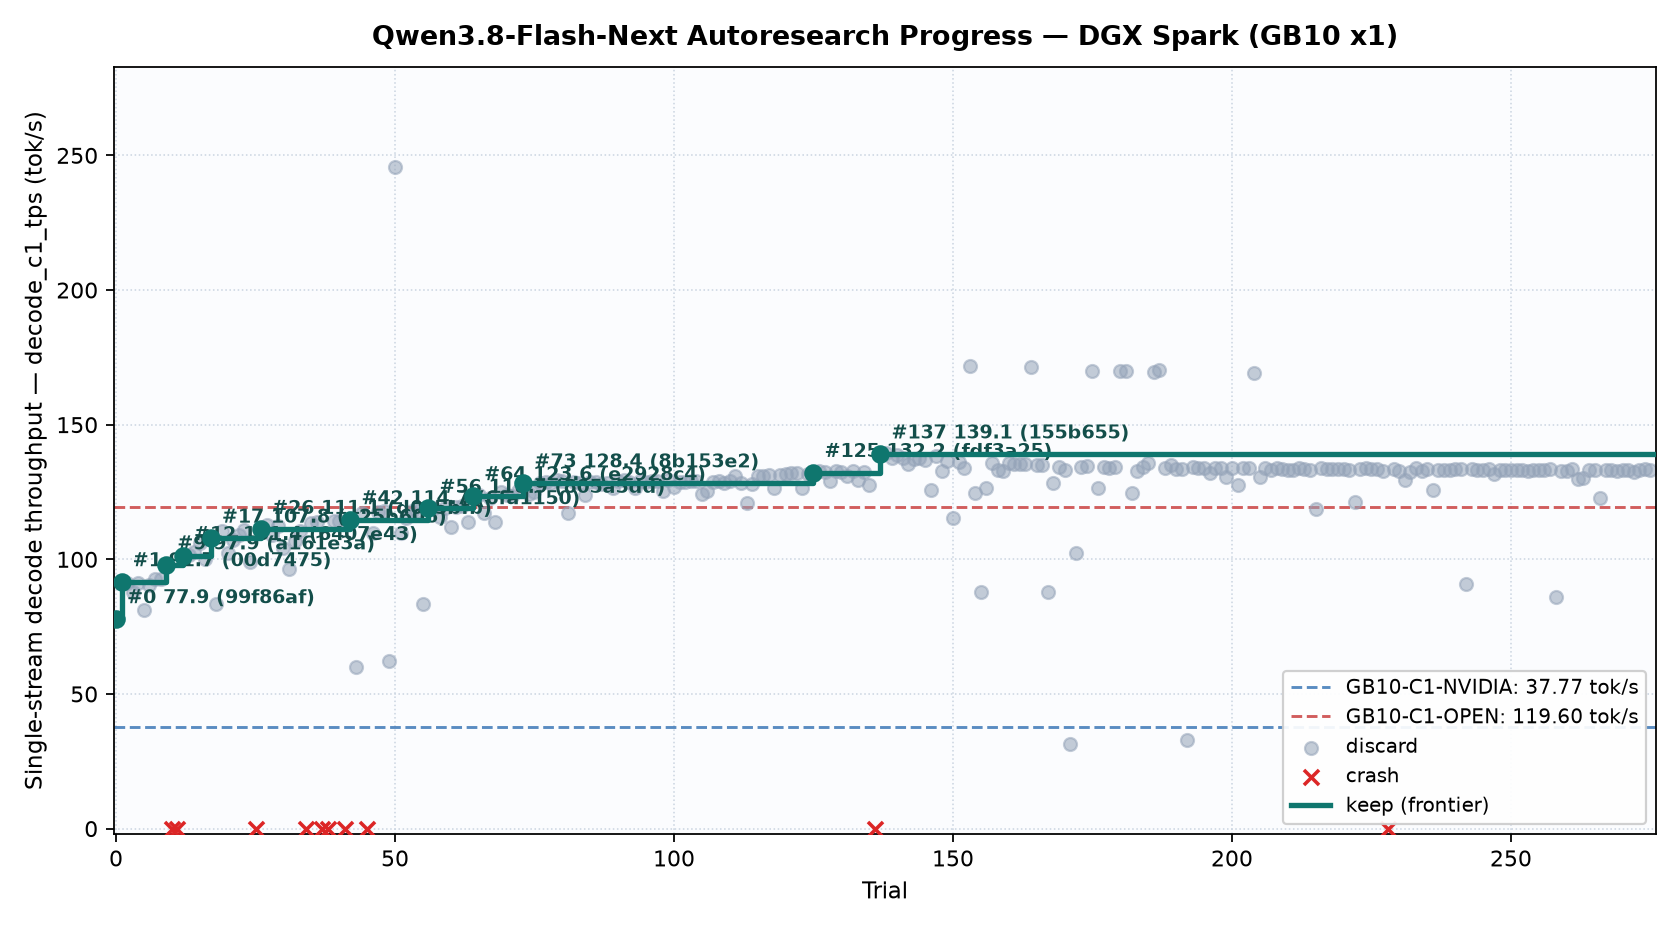
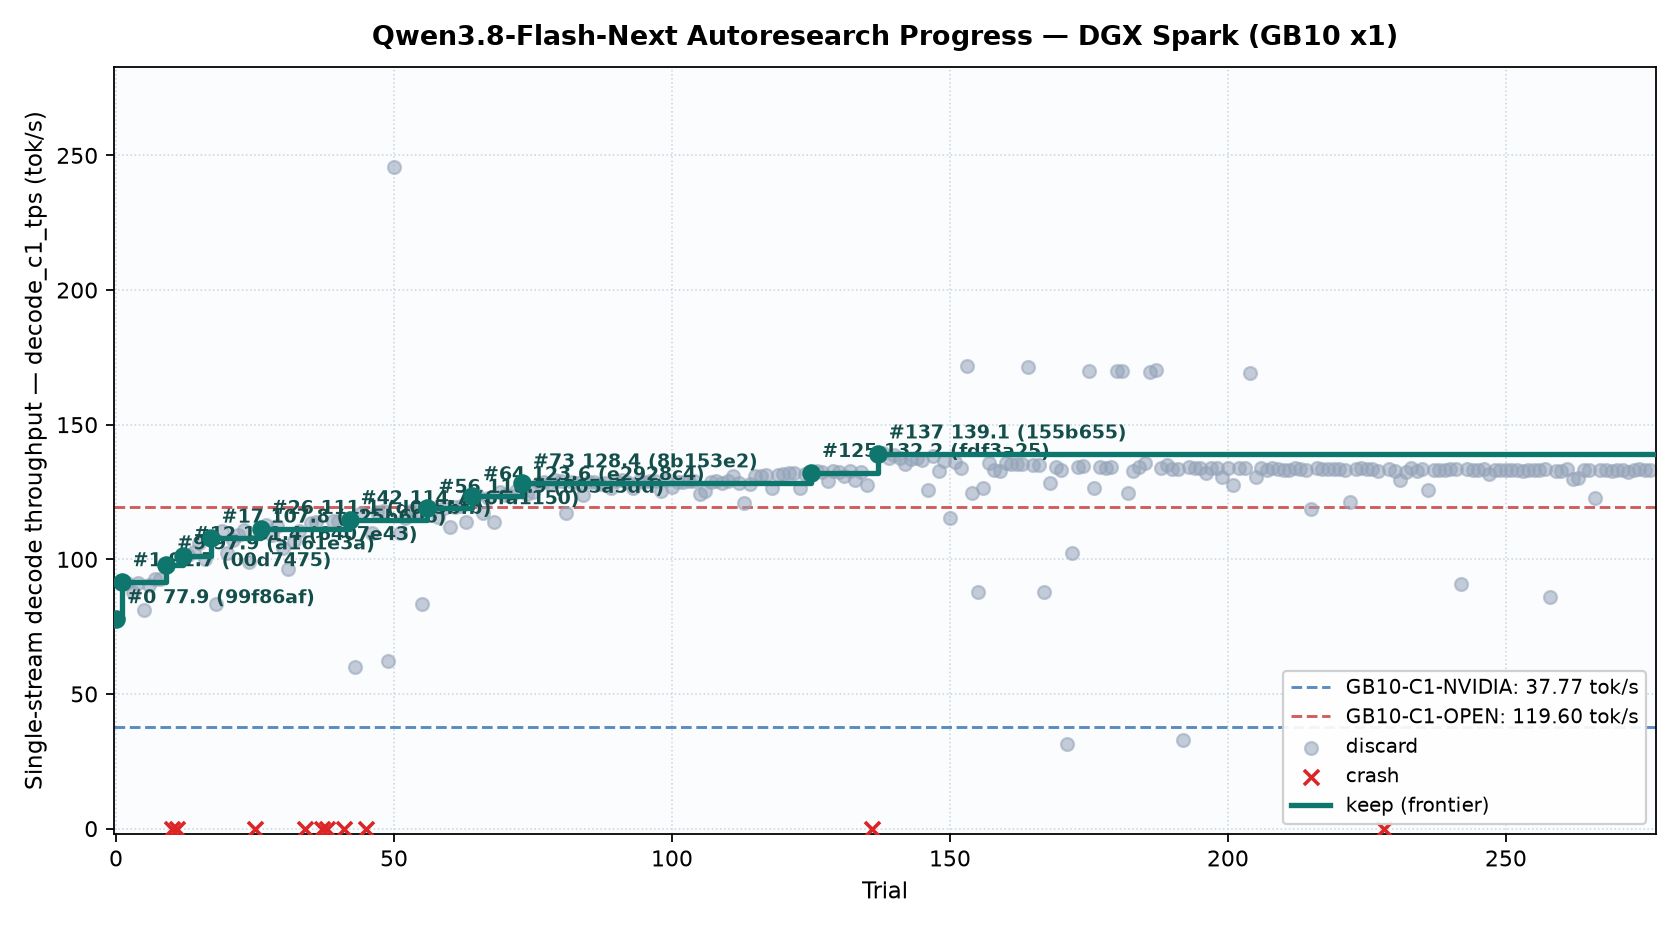
spark trial 276: discard

diff --git a/records/research-log.md b/records/research-log.md
@@ -309,3 +309,4 @@ Deprioritized: **3-bit expert weights** (Hibana +43% but GPQA -0.3, LCB -2.3; on
 | 2026-11-22 21:54 | 273 (new stack) | <https://github.com/ashhart/TensorFold/blob/v1.2.9/zig/kernels/cuda/flashnext_mtp.cu> | Read releases, commits and PRs for all six engines. | Defer upstream engine changes. In the binary draft head, normalize each warp at its own maximum and merge four partials after one barrier. Trial 212 still required two barriers. |
 | 2026-11-22 22:03 | 274 (new stack) | <https://github.com/ashhart/TensorFold/blob/v1.2.9/zig/kernels/cuda/nvfp4_experts.cu> | Read releases, commits and PRs for all six engines. | Trial 273 recorded 133.35 C1 (discard). Test a four-stage gate and up pipeline that divides each 16-group tile evenly and issues the fourth weight load ahead of the first matrix multiply. Keep scale decoding and accumulation order. Defer upstream engine changes. |
 | 2026-11-22 22:12 | 275 (new stack) | <https://docs.nvidia.com/cuda/cuda-programming-guide/05-appendices/environment-variables.html> | Read releases, commits and PRs for all six engines. | Trial 274 recorded 133.47 C1 (discard). Test 16 CUDA device connections for the existing compute and copy streams to reduce false serialization. Use the retained engine binary and apply the setting to every profile. Defer upstream engine changes. SGLang [PR 46784](https://github.com/sgl-project/sglang/pull/46784) skips attention during DeepSeek DSA draft prefill. Deferred as the Flash Next verifier uses a different attention path. |
+| 2026-11-22 22:17 | 276 (new stack) | <https://github.com/ashhart/TensorFold/blob/v1.2.9/zig/kernels/cuda/flashnext_mtp.cu> | Read releases, commits and PRs for all six engines. | Trial 275 recorded 133.28 C1 (discard). Shorten the serial float FMA chain in each candidate dot product with four independent accumulators. The target verifier and candidate count stay fixed. Defer upstream engine changes. |
